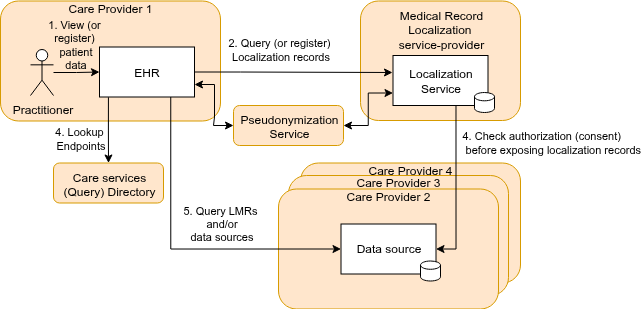
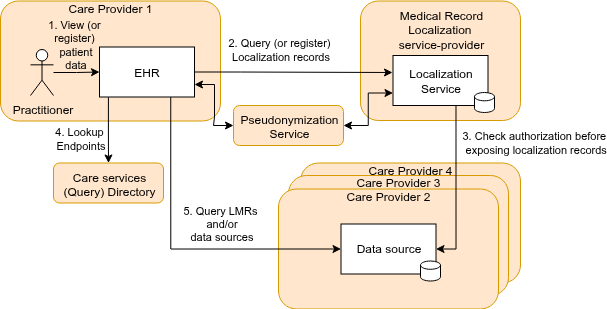
updated examples

diff --git a/input/pagecontent/localization.md b/input/pagecontent/localization.md
@@ -18,13 +18,13 @@ GF-Localization follows the choices made by the MinvWS Localization working grou
 
 - using one national Medical Record Localization Service: the 'Nationale Verwijs Index' (NVI)
 - using a local metadata registry (LMR) per data holder
-- reusing the FHIR-interface of the data source to act as LMR
+- reusing the FHIR-interface of the data holder to act as LMR
 - using one national service for pseudonymizing and depseudonymizing citizen service numbers (BSN's): the Pseudonymization Service
 
 Here is a brief overview of the processes that are involved: 
-1. Every data holder registers the presence of data concerning a specific patient and data category at the Localization service where it references a document to represent the data category
+1. Every data holder registers the presence of data concerning a specific patient and data category at the Localization service. This localization record references a document (e.g. Patient, Medication or Imaging-resource) to represent the data category.
 1. A data user (practitioner and/or system (EHR)) can now use the Localization service to discover data holders for a specific patient and data category.
-1. The Localization service checks access to the referenced document before it exposes the localization record to the data user.
+1. The Localization service checks access of the data requester to the referenced document before it exposes the localization record to the data user.
 
 These processes require the use of pseudonyms that are generated and resolved using a national Pseudonymization Service. The Localization service-response provides a list of data holders; the endpoints of these data holders (e.g. FHIR or DICOM-urls) need to be resolved using a [Care service (Query) Directory](./care-services.html#query-directory). This process is illustrated in [this example](./care-services.html#use-case-2-endpoint-discovery). 
 
@@ -39,7 +39,7 @@ For more detail on the topology of GF-Localization, see [GF-Lokalisatie, ADR-2](
 A (Medical Record) Localization Service is responsible for managing the registration, maintenance, and publication of localization records. It should be able to create and update localization records. A Localization Service MUST implement these [FHIR capabilities](./CapabilityStatement-nl-gf-localization-repository.html) and basically involves creating and searching for FHIR DocumentReferences (see [Localization record](#localization-record))
 
 #### Local Metadata Register
-A Local Metadata Register (LMR) is responsible for managing the registration, maintenance, and publication of the metadata of one data holder (the custodian or the healthcare organization). To implement an LMR, existing FHIR-APIs of data sources can be used. Minimal requirements for a LMR are specified in this [FHIR capabilitystatement](./CapabilityStatement-nl-gf-localization-repository-lmr.html). Http-method HEAD SHALL be supported to check the access (and thereby: consent) to the localization-record for the [Localization service](#localization-service).
+A Local Metadata Register (LMR) is responsible for managing the registration, maintenance, and publication of the metadata of one data holder (the custodian or the healthcare organization). To implement an LMR, existing FHIR-APIs of data sources can be used. Minimum requirements for a LMR are specified in this [FHIR capabilitystatement](./CapabilityStatement-nl-gf-localization-repository-lmr.html). HTTP-method HEAD SHALL be supported to allow the [Localization service](#localization-service) to check the access (consent) to the localization-record for the data user at the data holder.
 
 #### Pseudonymization Service
 The Pseudonymization Service is responsible for creating and retrieving Polymorphic Pseudonyms of Patient identifiers. It involves multiple interactions for both a FHIR request and a FHIR response:
@@ -54,8 +54,9 @@ This version of the IG will not go into the details of this Pseudonymization Ser
 Within GF-Localization the [NL-gf-localization-DocumentReference profile](./StructureDefinition-nl-gf-localization-documentreference.html) is used to register, search, and validate localization records ([NL-GF-IG, ADR#10](https://github.com/nuts-foundation/nl-generic-functions-ig/issues/10)).
 This data model basically states ***"Care provider X has data of type Y for Patient Z"***. It contains the following elements:
 - **Organization identifier**: The care provider identifier (URA) representing the data holder/custodian.
-- **Patient identifier** (BSN/pseudoBsn). The initial implementation uses plain BSN (Burgerservicenummer), which will be replaced by pseudoBsn in a later stage for enhanced privacy.
+- **Patient identifier**: The pseudomized BSN to identify the patient.
 - **Type**: Represents type of data stored at the data holder/custodian. ***No ValueSet has been decided upon yet [GF-Lokalisatie, ADR#62](https://github.com/minvws/generiekefuncties-lokalisatie/issues/62), so in this IG-version, a fixed LOINC code '55188-7' is used: "Patient data Document"***
+- **Url**: A link/url to a document (e.g. FHIR resource) that represents the data type of this localization record. This url used by the Localization service to check authorization (consent) at the data holder for the data user/requester.
 
 A [Location record example](./DocumentReference-52b792ba-11ae-42f3-bcc1-231f333f2317.html) is in the IG artifacts.
 
@@ -65,7 +66,7 @@ A [Location record example](./DocumentReference-52b792ba-11ae-42f3-bcc1-231f333f
 One of things you can do to mitigate privacy risks: ***Please don't put dates or other privacy-sensitive data into the localization records since it can expose the identity patient***
 
 #### Pseudonymization
-The initial implementation uses plain BSN (Burgerservicenummer) for simplicity. In a later stage, this will be replaced with pseudo-BSNs to enhance patient privacy. The pseudonymization service will ensure that patient identities are protected while still allowing organizations to use a joint index.([GF-Lokalisatie, ADR-1](https://github.com/minvws/generiekefuncties-lokalisatie/issues/8))
+Patient identifier BSN (BurgerServiceNummer) is pseudomized to enhance patient privacy. The pseudonymization service will ensure that patient identities are protected while still allowing organizations to use a joint index.([GF-Lokalisatie, ADR-1](https://github.com/minvws/generiekefuncties-lokalisatie/issues/8))
 
 
 
@@ -81,7 +82,10 @@ Authentication and authorization follows the [GF Authorization](./authorization.
 - **Organization type**: The type of healthcare organization making the query
 - **Practitioner identifier** (UZI/DEZI): The unique healthcare professional identifier of the requester
 - **Role code**: The [professional role code](./ValueSet-uzi-rolcode-vs.html) of the requester
-- **Patient identifier** (BSN/pseudoBSN): The Patient identifier, used to check/fetch a Consent
+- **Patient identifier** (pseudoBSN): The Patient identifier, used to check/fetch a Consent
+
+**For HEAD operations (checking access for data requester at data holder by localization service):**
+- **Url**: Url in the localization record (DocumentReference). Based on the HTTP-status in the response, the relationship between data holder and patient may be exposed to the data requester.
 
 These attributes ensure proper access control and auditing while maintaining the security requirements outlined in the [GF Authorization](./authorization.html) specification.
 
